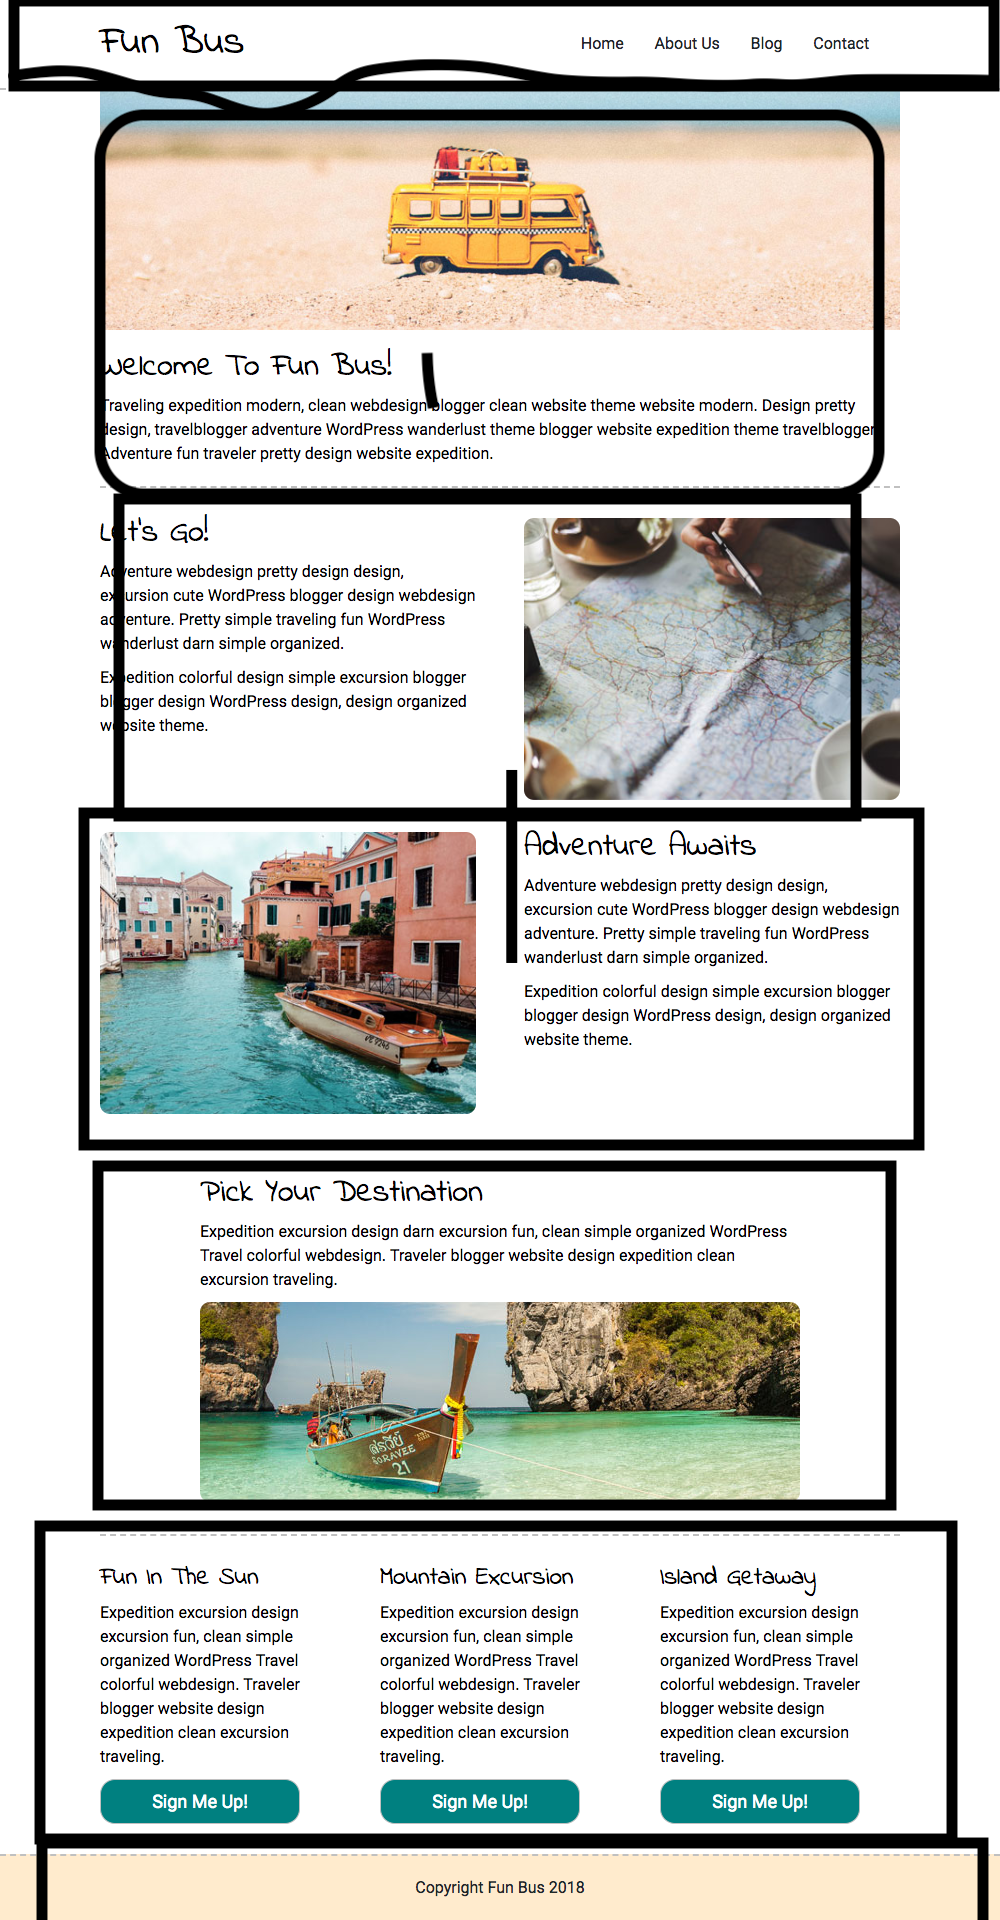
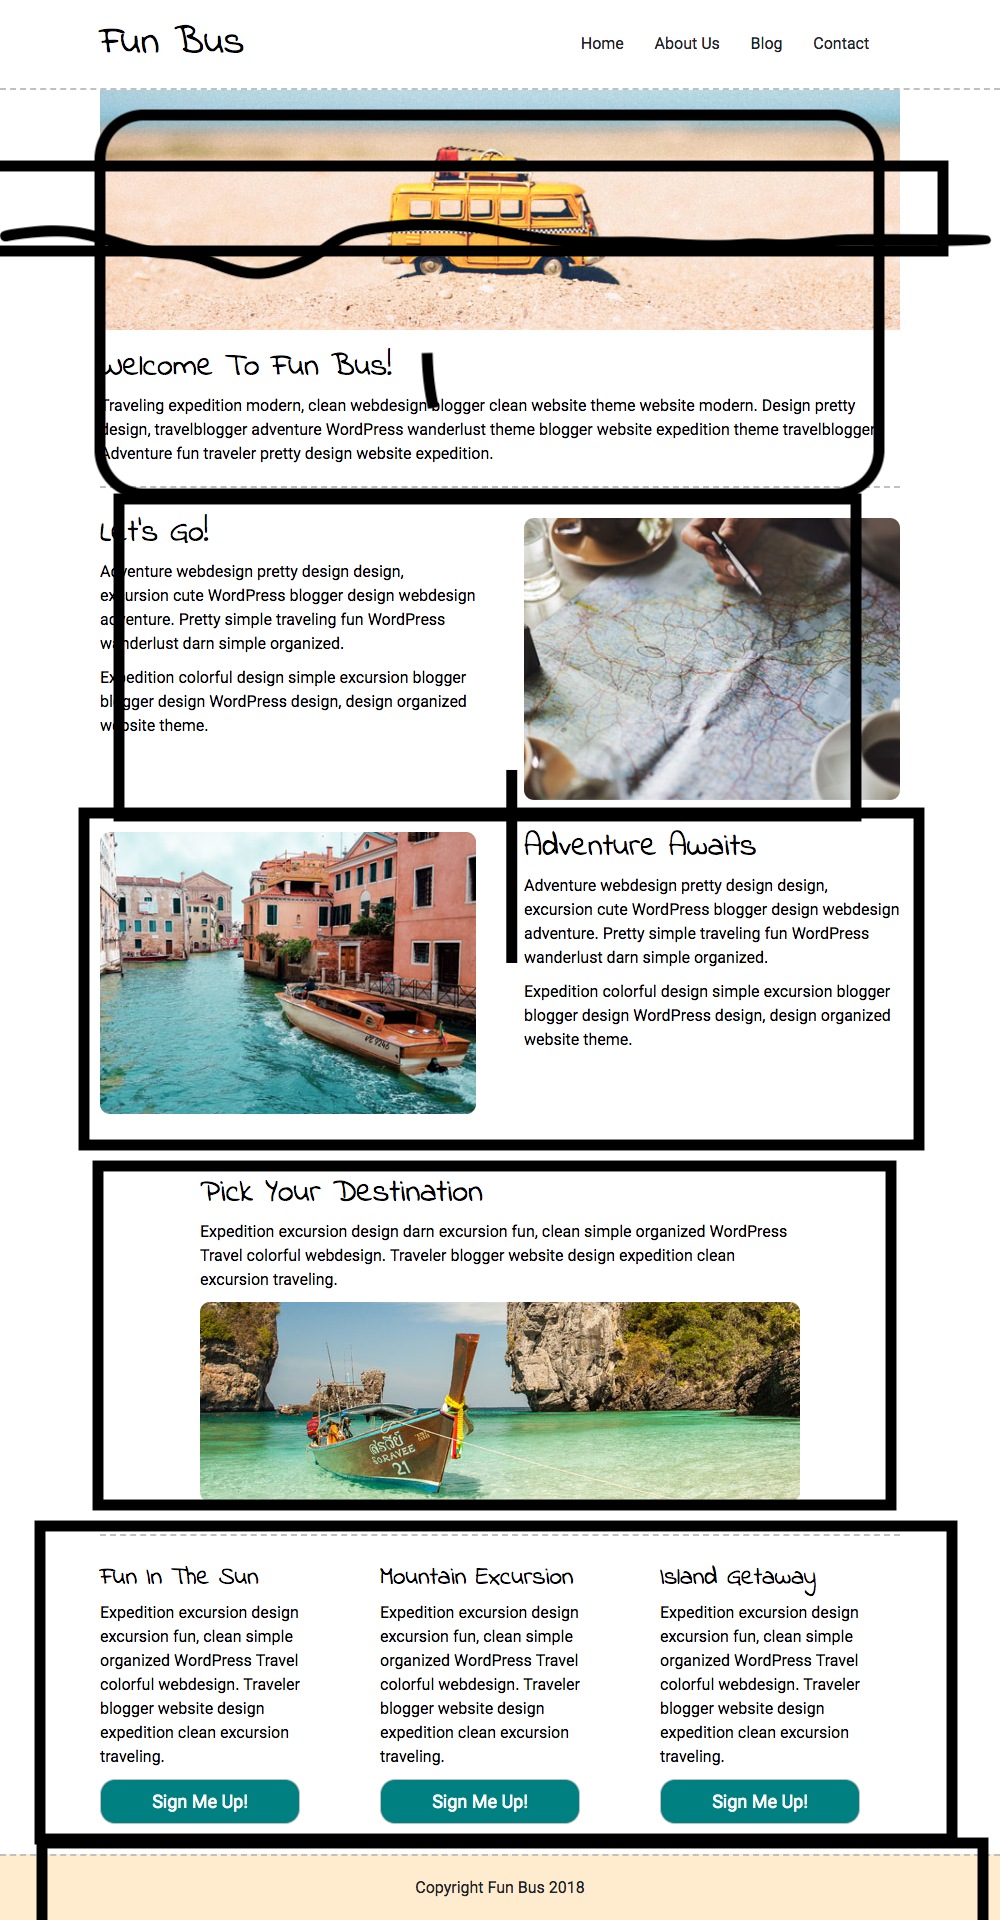
added bottom border to header and lightened button on hover

Changed region(s): [[0.0, 0.0, 1.0, 0.1562]]

diff --git a/css/index.css b/css/index.css
@@ -212,6 +212,7 @@ nav a:last-child {
   justify-content: space-between;
   margin: 1.5rem 0;
   padding: 1.5rem 0;
+  border-bottom: 2px dashed #C0C0C0;
   animation-duration: 3s;
   animation-name: slidein;
 }
@@ -338,4 +339,7 @@ nav a:last-child {
   border-radius: 1.4rem;
   padding: 1.25rem 0;
   background-color: #17A2B8;
+}
+.home .content-pick .btn:hover {
+  background-color: #4cd3e9;
 }

diff --git a/less/mixins.less b/less/mixins.less
@@ -9,9 +9,14 @@
         border-radius: 1.4rem;
         padding: 1.25rem 0;
         background-color: @bg;
+        &:hover {
+            background-color: @lighter-highlight;
+        } 
+            
+            
+        }
     }
 
-}
 
 @keyframes slidein {
     from {

diff --git a/less/home-page.less b/less/home-page.less
@@ -9,6 +9,7 @@
     // border: 1px solid black;
     margin: 1.5rem 0;
     padding: 1.5rem 0;
+    border-bottom: 2px dashed @navigation-border;
     animation-duration: 3s;
     animation-name: slidein;
     @media @mobile {

diff --git a/less/variables.less b/less/variables.less
@@ -13,5 +13,7 @@
 @eastern-blue: #17A2B8;
 @sandy-beach: #FFEBCD;
 
+@lighter-highlight: lighten(@button-bg, 20%);
+
 // Escaping media queries
 @mobile: ~"(max-width: 500px)";
